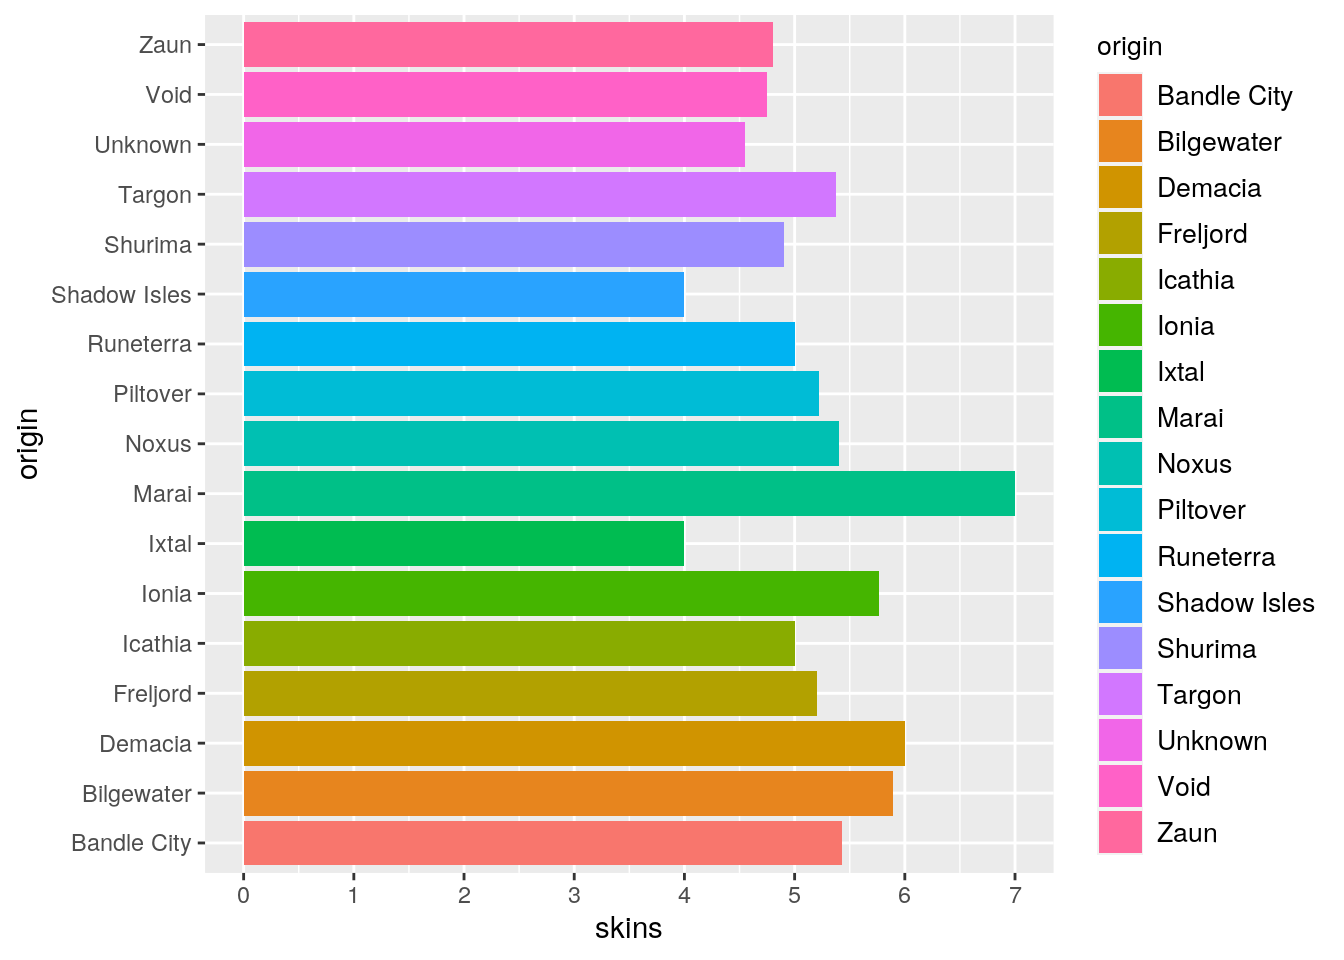
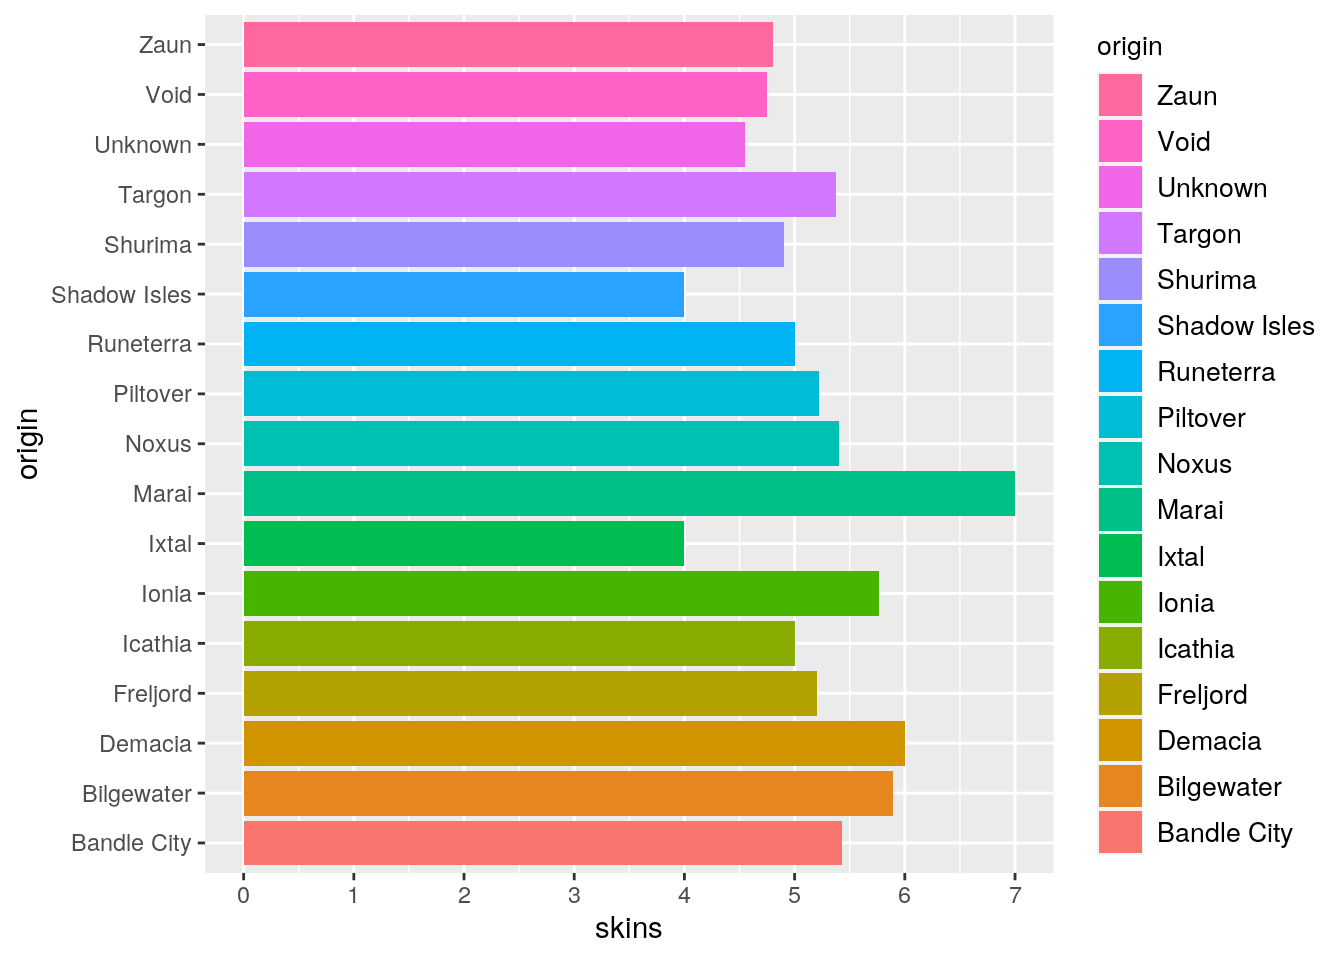
some message

Changed region(s): [[0.8125, 0.0625, 0.9688, 0.4688], [0.8125, 0.5, 0.9688, 0.9062]]

diff --git a/post/2021/05/08/the-importance-of-r-and-python/index.html b/post/2021/05/08/the-importance-of-r-and-python/index.html
@@ -116,7 +116,7 @@ One of the tools responsible for helping R and Python work together for data ana
 nice&lt;- ggplot(py$lea, aes(x = origin, fill = origin)) +
   geom_bar(aes(y=skins), stat= &quot;summary&quot;, fun=mean)
 
-nice + theme(legend.title = element_text(size = 10), legend.text = element_text(size=10)) + coord_flip() + scale_y_continuous(breaks=c(0, 1, 2, 3, 4, 5, 6, 7, 8, 9, 10, 11, 12))</code></pre>
+nice + theme(legend.title = element_text(size = 10), legend.text = element_text(size=10)) + coord_flip() + guides(fill = guide_legend(reverse=TRUE)) + scale_y_continuous(breaks=c(0, 1, 2, 3, 4, 5, 6, 7, 8, 9, 10, 11, 12))</code></pre>
 <p><img src="../../../../../post/2021-05-08-the-importance-of-r-and-python_files/figure-html/unnamed-chunk-4-1.png" width="672" /></p>
 
             
